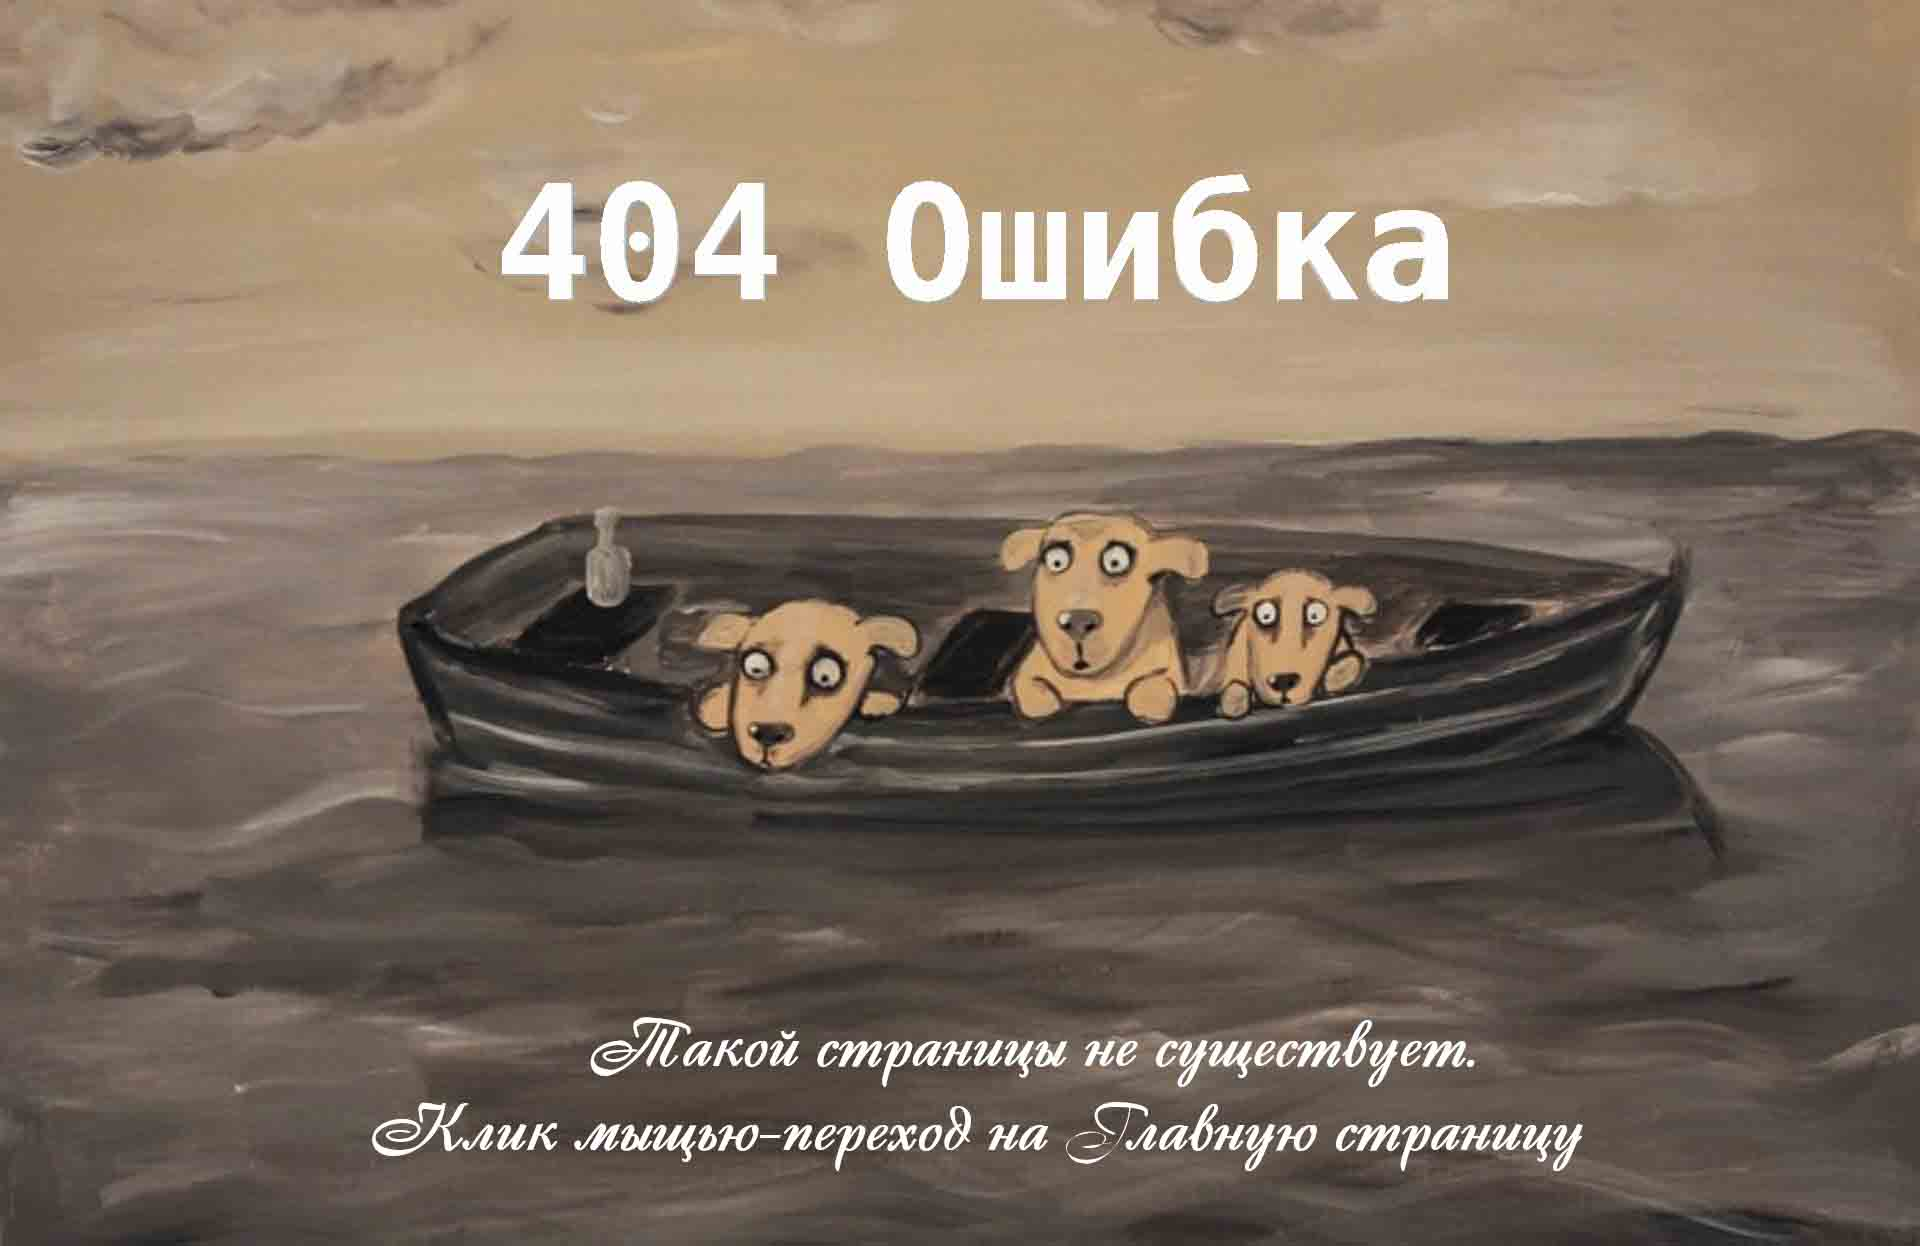
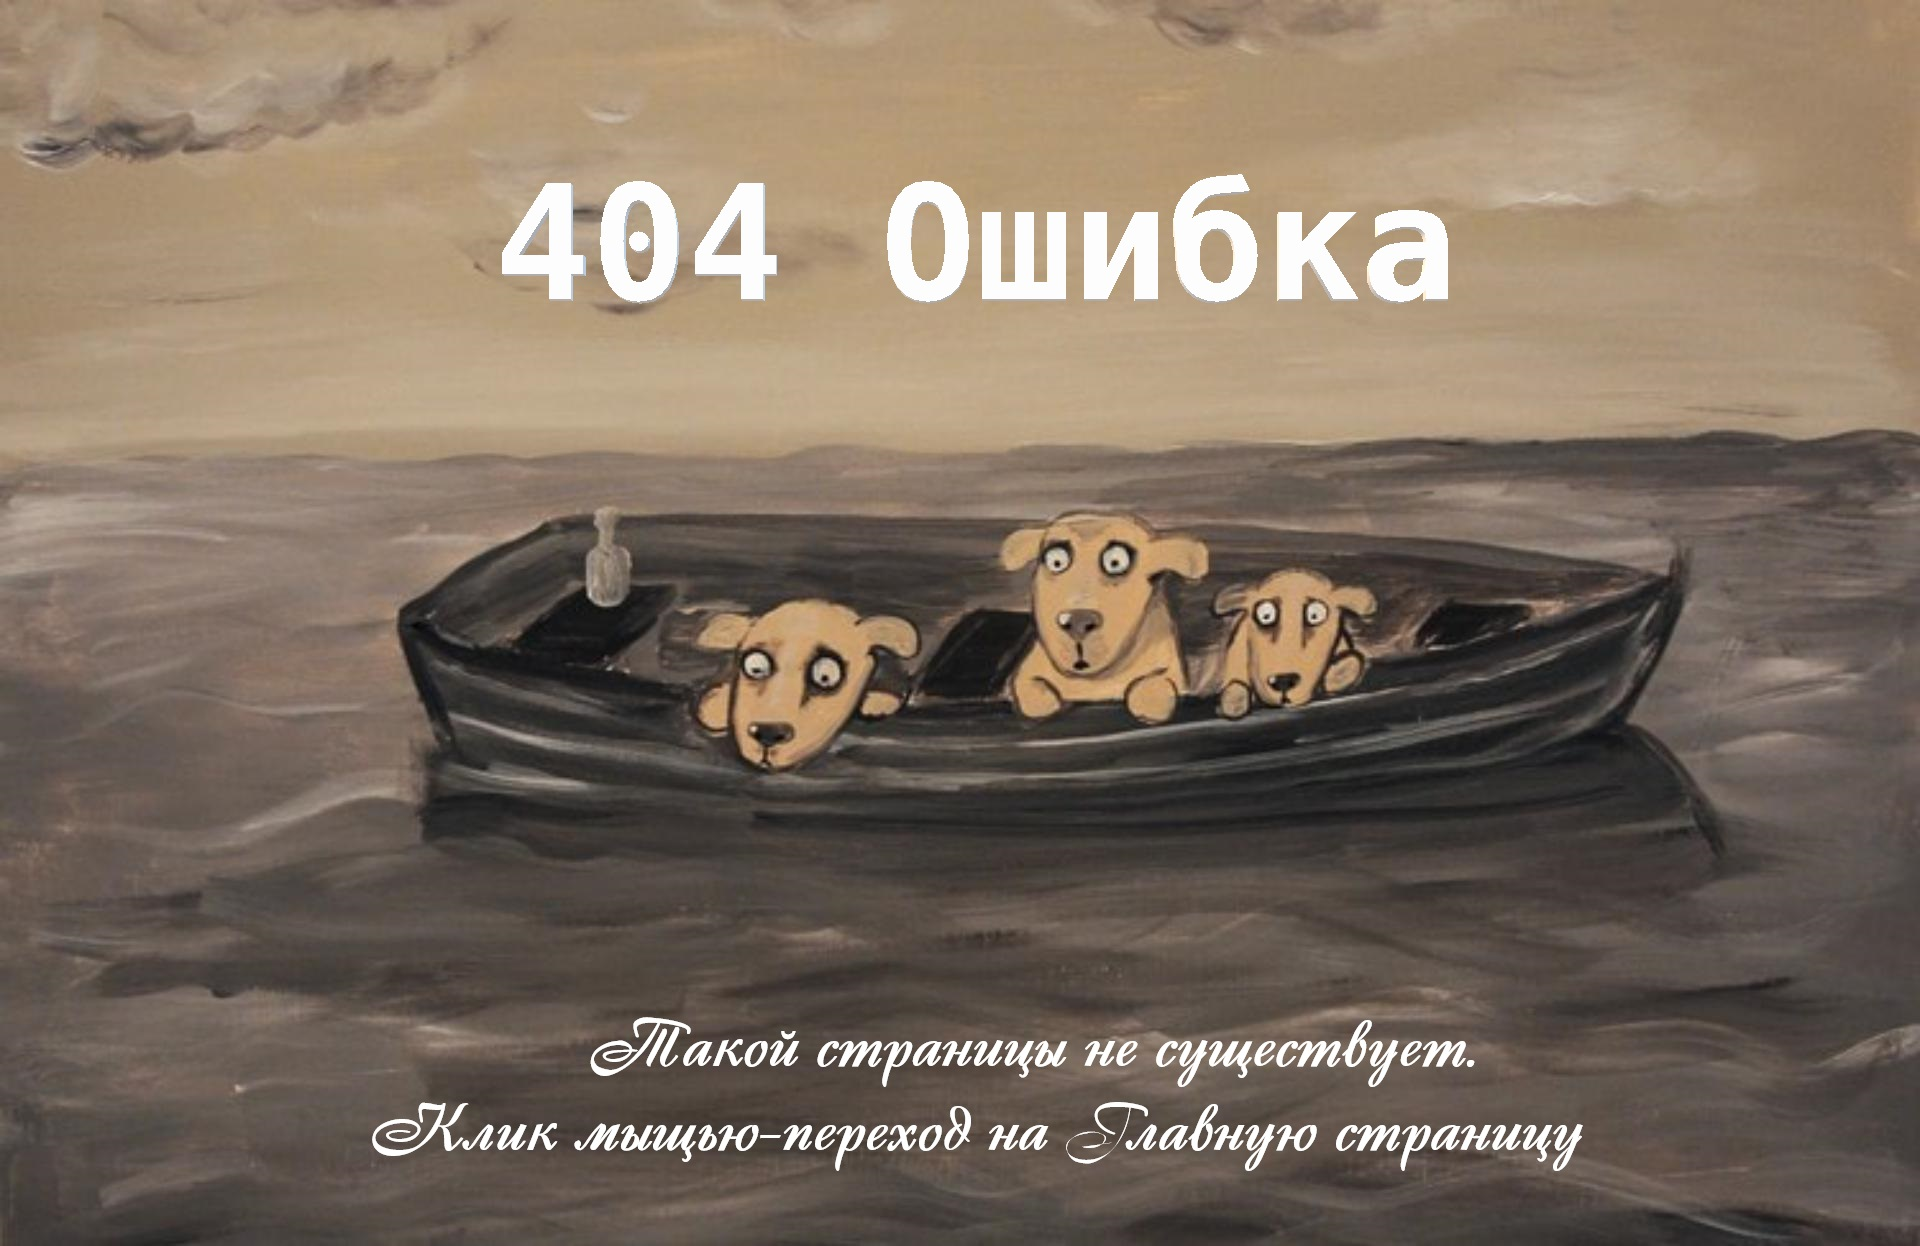
change 404 image and add style fix

diff --git a/src/Assets/css/default.min.css b/src/Assets/css/default.min.css
@@ -1,1 +1,1 @@
-.header{background:#f3f3f3}.items a{color:#a0a0a0!important;font-family:Roboto,sans-serif}.items a:hover{color:#676767!important;-webkit-transition:.3s ease-in-out;-moz-transition:.3s ease-in-out;transition:.3s ease-in-out}.logo-wrapper{width:50%}.logo{width:80%}.drop-down{color:#a0a0a0!important;cursor:pointer}.drop-down:hover{color:#676767!important;-webkit-transition:.3s ease-in-out;-moz-transition:.3s ease-in-out;transition:.3s ease-in-out}.homeImg{width:100%;height:100vh;background-image:url(pena.jpg);background-repeat:repeat-x;background-position:top center;background-attachment:fixed;background-size:cover}.penoizol h2,.penoizol h5,.penoizol p{text-align:center;font-family:Roboto,sans-serif}.penoizol h5{font-family:italic,sans-serif;font-style:italic;padding-top:1%;padding-bottom:1%}.penoizol h2{padding-top:4%}footer{background-color:#2a2a2a;width:100%;font-family:Roboto,sans-serif;font-size:13px;font-weight:100;color:#fff}footer .container{padding:1% 5.5%;margin:0}footer .copyright{width:50%}.icons{text-align:center}.icons .iconWrapper{height:220px;display:inline-block;padding-top:5%}.icons .iconWrapper span{color:#00a73d}.icons .iconWrapper span:hover{color:#0973b9;-webkit-transition:.3s ease-in-out;-moz-transition:.3s ease-in-out;transition:.3s ease-in-out}.icons .iconWrapper h3{padding-top:5%;font-family:Roboto,sans-serif;color:#4b5762}.icons .iconWrapper h3:hover{cursor:pointer;color:#0973b9;-webkit-transition:.3s ease-in-out;-moz-transition:.3s ease-in-out;transition:.3s ease-in-out}.icons .iconWrapper a{text-decoration:none}.notFound{width:100%}
+.header{background:#f3f3f3}.items a{color:#a0a0a0!important;font-family:Roboto,sans-serif}.items a:hover{color:#676767!important;-webkit-transition:.3s ease-in-out;-moz-transition:.3s ease-in-out;transition:.3s ease-in-out}.logo-wrapper{width:50%}.logo{width:80%}.drop-down{color:#a0a0a0!important;cursor:pointer}.drop-down:hover{color:#676767!important;-webkit-transition:.3s ease-in-out;-moz-transition:.3s ease-in-out;transition:.3s ease-in-out}.homeImg{width:100%;height:74vh;background-image:url(pena.jpg);background-repeat:repeat-x;background-position:top center;background-attachment:fixed;background-size:cover}.penoizol h2,.penoizol h5,.penoizol p{text-align:center;font-family:Roboto,sans-serif}.penoizol h5{font-family:italic,sans-serif;font-style:italic;padding-top:1%;padding-bottom:1%}.penoizol h2{padding-top:4%}footer{background-color:#2a2a2a;width:100%;font-family:Roboto,sans-serif;font-size:13px;font-weight:100;color:#fff}footer .container{padding:1% 5.5%;margin:0}footer .copyright{width:50%}.icons{text-align:center}.icons .iconWrapper{height:220px;display:inline-block;padding-top:5%}.icons .iconWrapper span{color:#00a73d}.icons .iconWrapper span:hover{color:#0973b9;-webkit-transition:.3s ease-in-out;-moz-transition:.3s ease-in-out;transition:.3s ease-in-out}.icons .iconWrapper h3{padding-top:2%;font-family:Roboto,sans-serif;color:#4b5762}.icons .iconWrapper h3:hover{cursor:pointer;color:#0973b9;-webkit-transition:.3s ease-in-out;-moz-transition:.3s ease-in-out;transition:.3s ease-in-out}.icons .iconWrapper a{text-decoration:none}.notFound{width:100%}

diff --git a/src/components/headerComponent/header.js b/src/components/headerComponent/header.js
@@ -22,7 +22,7 @@ class Header extends React.Component {
     }
     render() {
       return (
-        <Navbar light color="blue-grey lighten-5" className="header" expand="lg" sticky="top">
+        <Navbar light color="blue-grey lighten-5" className="header" expand="xl" sticky="top">
           <NavbarBrand className="logo-wrapper">
             <Link to="/">
               <img className="col-md-6 logo" src="logo.jpg" onclick="topFunction()" alt="" width="60%"></img>

diff --git a/src/Assets/scss/default.scss b/src/Assets/scss/default.scss
@@ -42,7 +42,7 @@
 
 .homeImg{
   width: 100%;
-  height: 100vh;
+  height: 74vh;
   background-image: url('./pena.jpg');
   background-repeat: repeat-x;
   background-position: top center;
@@ -107,7 +107,7 @@ footer {
       @include transition(.3s ease-in-out)
     }
     h3{
-    padding-top: 5%;
+    padding-top: 2%;
     font-family: 'Roboto', sans-serif;
     color: #4b5762;
     }
